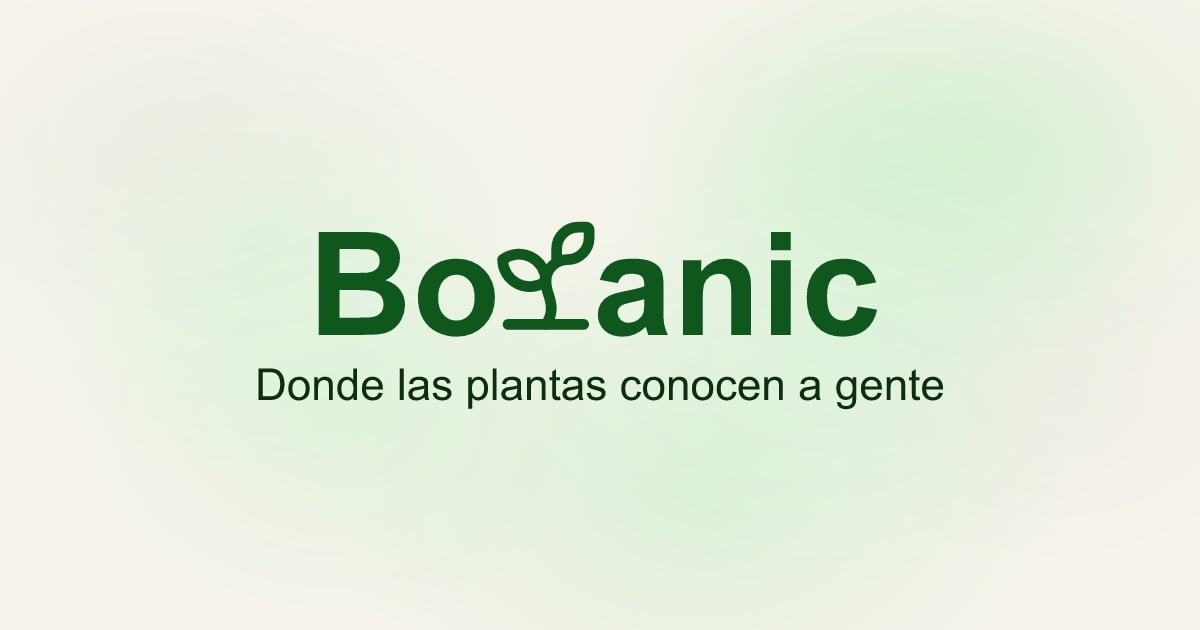
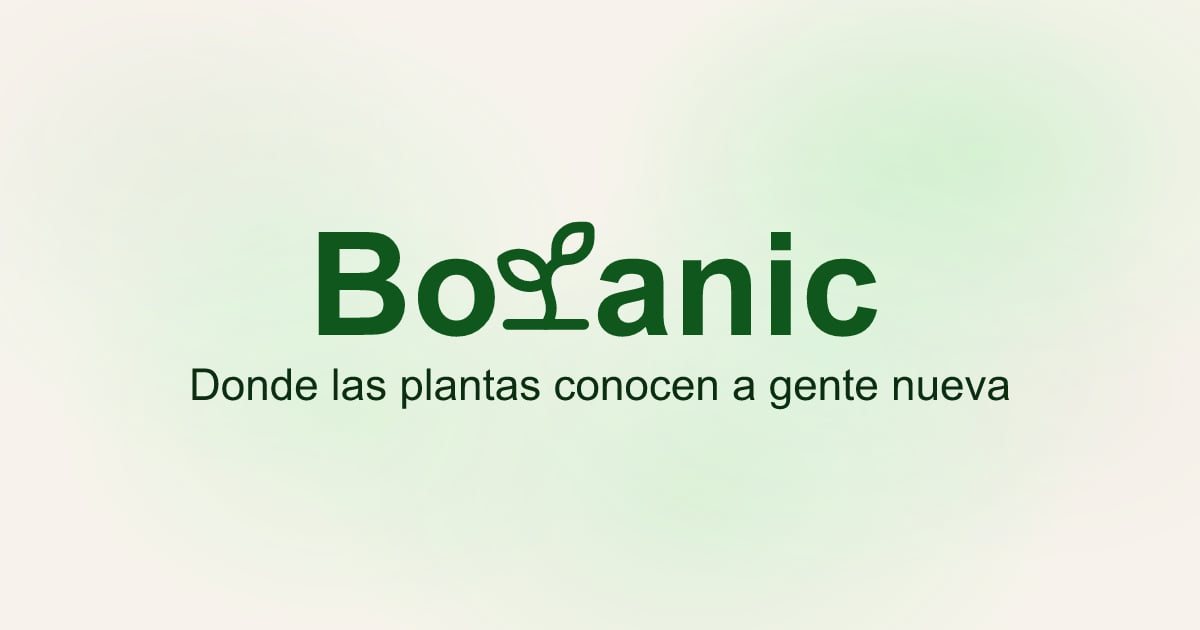
feat(landing): header compartido, copy 'gente nueva' y actualizacion de docs

Changed region(s): [[0.1542, 0.573, 0.8633, 0.6635]]

diff --git a/src/routes/+page.svelte b/src/routes/+page.svelte
@@ -1,6 +1,6 @@
 <script lang="ts">
 	import { Button } from "$lib/components/ui/button";
-	import Logo from "$lib/components/Logo.svelte";
+	import AppHeader from "$lib/components/AppHeader.svelte";
 	import BlogCta from "$lib/components/blog/BlogCta.svelte";
 	import AppFooter from "$lib/components/AppFooter.svelte";
 	import {
@@ -12,6 +12,8 @@
 		ShieldCheck,
 		ShoppingBasket,
 		Shovel,
+		Heart,
+		Recycle,
 	} from "lucide-svelte/icons";
 
 	const demoListings = [
@@ -82,17 +84,17 @@
 </script>
 
 <svelte:head>
-	<title>Botanic | Donde las plantas conocen a gente</title>
+	<title>Botanic | Donde las plantas conocen a gente nueva</title>
 	<meta
 		name="description"
 		content="Botanic conecta a Plant Lovers para vender, cambiar y regalar plantas, semillas, esquejes y tiestos. Para que tus plantas conozcan a quien las querrá."
 	/>
 	<meta name="robots" content="index, follow, max-image-preview:large" />
 	<link rel="canonical" href="https://www.botanicapp.es/" />
-	<meta property="og:title" content="Botanic | Donde las plantas conocen a gente" />
+	<meta property="og:title" content="Botanic | Donde las plantas conocen a gente nueva" />
 	<meta
 		property="og:description"
-		content="Saca más partido a tus plantas y encuentra las que siempre quisiste. Vender, cambiar o regalar."
+		content="La app para Plant Lovers. Saca más partido a tus plantas y encuentra las que siempre quisiste: vender, cambiar o regalar."
 	/>
 	<meta property="og:type" content="website" />
 	<meta property="og:url" content="https://www.botanicapp.es/" />
@@ -101,12 +103,12 @@
 	<meta property="og:image" content="https://www.botanicapp.es/og-image.jpg" />
 	<meta property="og:image:width" content="1200" />
 	<meta property="og:image:height" content="630" />
-	<meta property="og:image:alt" content="Botanic | Donde las plantas conocen a gente" />
+	<meta property="og:image:alt" content="Botanic | Donde las plantas conocen a gente nueva" />
 	<meta name="twitter:card" content="summary_large_image" />
-	<meta name="twitter:title" content="Botanic | Donde las plantas conocen a gente" />
+	<meta name="twitter:title" content="Botanic | Donde las plantas conocen a gente nueva" />
 	<meta
 		name="twitter:description"
-		content="Saca más partido a tus plantas y encuentra las que siempre quisiste. Vender, cambiar o regalar."
+		content="La app para Plant Lovers. Saca más partido a tus plantas y encuentra las que siempre quisiste: vender, cambiar o regalar."
 	/>
 	<meta name="twitter:image" content="https://www.botanicapp.es/og-image.jpg" />
 	<script type="application/ld+json">
@@ -144,18 +146,18 @@
 	</script>
 </svelte:head>
 
+<AppHeader />
+
 <!-- Hero -->
 <section class="mx-auto grid max-w-6xl items-center gap-12 px-6 pt-24 pb-32 md:grid-cols-2 md:gap-16 md:px-8 md:pt-36 md:pb-40">
 	<div class="flex flex-col items-start gap-5">
-		<a href="/" class="inline-flex items-center">
-			<Logo class="h-10" />
-		</a>
+		<p class="text-sm font-medium tracking-wide text-primary uppercase">La app para Plant Lovers</p>
 		<h1 class="text-4xl leading-[1.05] font-light text-balance md:text-6xl">
 			Tus plantas quieren <strong class="font-semibold">conocer a gente nueva</strong>
 		</h1>
 		<p class="max-w-md text-lg text-muted-foreground">
-			Saca más partido a tus plantas y encuentra las que siempre quisiste. Vender, cambiar o
-			regalar: así tus plantas conocen a gente que las va a cuidar.
+			Saca más partido a tus plantas y encuentra las que siempre quisiste. Con la app de
+			Botanic, vender, cambiar o regalar.
 		</p>
 		<Button href="#waitlist" size="lg" class="mt-2 h-12 px-8 text-base">Únete a la waitlist</Button>
 	</div>
@@ -242,6 +244,45 @@
 				{cat.name}
 			</span>
 		{/each}
+	</div>
+</section>
+
+<!-- ¿Qué es Botanic? -->
+<section class="mx-auto max-w-6xl px-4 pt-32 pb-16 md:px-6 md:pt-36 md:pb-20">
+	<div
+		class="rounded-3xl border border-border bg-secondary/40 px-6 py-14 md:px-12 md:py-16"
+	>
+		<div class="mx-auto max-w-2xl text-center">
+			<p class="text-sm font-medium tracking-wide text-primary uppercase">¿Qué es Botanic?</p>
+			<h2 class="mt-2 text-4xl leading-tight font-light text-balance md:text-[2.875rem]">
+				La app donde las plantas <strong class="font-semibold">conocen a gente nueva</strong>
+			</h2>
+			<p class="mt-3 text-pretty text-muted-foreground">
+				Botanic es una aplicación para la comunidad de Plant Lovers. Publica tus plantas,
+				esquejes, semillas o tiestos y encuentra a quien los quiera: para venderlos,
+				cambiarlos o regalarlos.
+			</p>
+		</div>
+		<div class="mt-10 flex flex-wrap items-center justify-center gap-2.5">
+			<span
+				class="inline-flex items-center gap-2 rounded-full border border-border bg-background px-4 py-2 text-sm font-medium"
+			>
+				<Leaf class="size-4 text-primary" aria-hidden="true" />
+				Solo plantas — pensado para el mundo vegetal
+			</span>
+			<span
+				class="inline-flex items-center gap-2 rounded-full border border-border bg-background px-4 py-2 text-sm font-medium"
+			>
+				<Heart class="size-4 text-primary" aria-hidden="true" />
+				Comunidad — entre gente que cuida plantas
+			</span>
+			<span
+				class="inline-flex items-center gap-2 rounded-full border border-border bg-background px-4 py-2 text-sm font-medium"
+			>
+				<Recycle class="size-4 text-primary" aria-hidden="true" />
+				Segunda vida — la economía circular, hecha fácil
+			</span>
+		</div>
 	</div>
 </section>
 
@@ -344,9 +385,7 @@
 
 <!-- Waitlist -->
 <section class="mx-auto max-w-6xl px-4 py-24 md:px-6">
-	<div id="waitlist" class="scroll-mt-16">
-		<BlogCta />
-	</div>
+	<BlogCta />
 </section>
 
 <!-- Footer -->

diff --git a/src/lib/components/AppHeader.svelte b/src/lib/components/AppHeader.svelte
@@ -1,0 +1,38 @@
+<script lang="ts">
+	import { page } from "$app/state";
+	import Logo from "$lib/components/Logo.svelte";
+	import { Button } from "$lib/components/ui/button";
+
+	const links = $derived([
+		{ label: "Inicio", href: "/", active: page.url.pathname === "/" },
+		{ label: "Blog", href: "/blog", active: page.url.pathname.startsWith("/blog") },
+	]);
+</script>
+
+<header
+	class="sticky top-0 z-10 border-b border-border/40 bg-background/95 backdrop-blur"
+>
+	<div
+		class="mx-auto flex max-w-6xl items-center justify-between px-4 py-4 md:px-6"
+	>
+		<a href="/" class="inline-flex items-center">
+			<Logo class="h-7" />
+		</a>
+		<div class="flex items-center gap-7">
+			<nav class="flex items-center gap-2" aria-label="Navegación principal">
+				{#each links as link}
+					<a
+						href={link.href}
+						aria-current={link.active ? "page" : undefined}
+						class="rounded-full px-4 py-1.5 text-sm font-medium transition-colors {link.active
+							? 'border border-border bg-muted text-foreground'
+							: 'text-muted-foreground hover:text-foreground'}"
+					>
+						{link.label}
+					</a>
+				{/each}
+			</nav>
+			<Button href="#waitlist" class="px-4">Únete a la waitlist</Button>
+		</div>
+	</div>
+</header>

diff --git a/src/routes/blog/+page.svelte b/src/routes/blog/+page.svelte
@@ -6,10 +6,10 @@
 </script>
 
 <svelte:head>
-	<title>Blog Botanic — Guías y cuidados para plant lovers</title>
+	<title>El blog de Botanic</title>
 	<meta
 		name="description"
-		content="Guías de cuidados, propagación y novedades del mundo de las plantas, para que tus plantas y tus esquejes conozcan a gente nueva."
+		content="Cuidados, propagación y novedades del mundo de las plantas, para que tus plantas y tus esquejes conozcan a gente nueva."
 	/>
 	<meta name="robots" content="index, follow, max-image-preview:large" />
 	<link rel="canonical" href="https://www.botanicapp.es/blog" />
@@ -19,7 +19,7 @@
 	<header class="mx-auto mb-12 max-w-2xl text-center">
 		<p class="text-sm font-medium tracking-wide text-primary uppercase">Blog Botanic</p>
 		<h1 class="mt-2 text-4xl leading-tight font-light text-balance md:text-5xl">
-			Guías para <strong class="font-semibold">plant lovers</strong>
+			El blog de <strong class="font-semibold">Botanic</strong>
 		</h1>
 		<p class="mt-3 text-pretty text-muted-foreground">
 			Cuidados, propagación y novedades del mundo vegetal, escritos con cariño. Y recuerda: si

diff --git a/src/routes/blog/pagina/[page]/+page.svelte b/src/routes/blog/pagina/[page]/+page.svelte
@@ -1,5 +1,6 @@
 <script lang="ts">
 	import BlogIndex from "$lib/components/blog/BlogIndex.svelte";
+	import BlogCta from "$lib/components/blog/BlogCta.svelte";
 
 	let { data } = $props();
 
@@ -10,10 +11,10 @@
 </script>
 
 <svelte:head>
-	<title>Blog Botanic — Página {data.page} · Guías para plant lovers</title>
+	<title>El blog de Botanic — Página {data.page}</title>
 	<meta
 		name="description"
-		content="Guías de cuidados, propagación y novedades del mundo de las plantas — página {data.page}."
+		content="Cuidados, propagación y novedades del mundo de las plantas — página {data.page}."
 	/>
 	<meta name="robots" content="index, follow, max-image-preview:large" />
 	<link rel="canonical" href={`${base}/blog/pagina/${data.page}`} />
@@ -27,4 +28,8 @@
 
 <section class="mx-auto max-w-6xl px-4 pt-6 pb-20 md:px-6">
 	<BlogIndex posts={data.posts} page={data.page} totalPages={data.totalPages} />
+
+	<div class="mt-20">
+		<BlogCta />
+	</div>
 </section>

diff --git a/src/routes/blog/+layout.svelte b/src/routes/blog/+layout.svelte
@@ -1,24 +1,12 @@
 <script lang="ts">
-	import { ArrowLeft } from "lucide-svelte/icons";
-	import Logo from "$lib/components/Logo.svelte";
+	import AppHeader from "$lib/components/AppHeader.svelte";
 	import AppFooter from "$lib/components/AppFooter.svelte";
 
 	let { children } = $props();
 </script>
 
 <div class="mx-auto flex min-h-dvh max-w-6xl flex-col">
-	<header class="sticky top-0 z-10 flex items-center justify-between border-b border-border/40 bg-background/95 px-4 py-4 backdrop-blur md:px-6">
-		<a href="/" class="inline-flex items-center">
-			<Logo class="h-7" />
-		</a>
-		<a
-			href="/"
-			class="inline-flex items-center gap-1.5 text-sm font-medium text-muted-foreground hover:text-foreground"
-		>
-			<ArrowLeft class="size-4" aria-hidden="true" />
-			Volver a la home
-		</a>
-	</header>
+	<AppHeader />
 
 	<main class="flex-1">
 		{@render children()}

diff --git a/src/lib/components/blog/BlogCta.svelte b/src/lib/components/blog/BlogCta.svelte
@@ -8,7 +8,10 @@
 	}: { title?: string; subtitle?: string } = $props();
 </script>
 
-<section class="relative overflow-hidden rounded-3xl bg-secondary/70 px-6 py-16 md:py-20">
+<section
+	id="waitlist"
+	class="relative scroll-mt-16 overflow-hidden rounded-3xl bg-secondary/70 px-6 py-16 md:py-20"
+>
 	<div class="relative mx-auto flex max-w-3xl flex-col items-center gap-4 text-center">
 		<Logo class="h-7" />
 		<h2 class="max-w-2xl text-3xl leading-tight font-light text-balance text-still-950 md:text-4xl">

diff --git a/src/routes/blog/feed.xml/+server.ts b/src/routes/blog/feed.xml/+server.ts
@@ -23,7 +23,7 @@ export const GET = () => {
 <channel>
 \t<title>Blog Botanic</title>
 \t<link>${BASE}/blog</link>
-\t<description>Guías de cuidados, propagación y novedades para plant lovers.</description>
+\t	<description>Cuidados, propagación y novedades del mundo de las plantas.</description>
 \t<language>es-es</language>
 \t<atom:link href="${BASE}/blog/feed.xml" rel="self" type="application/rss+xml" />
 ${items}

diff --git a/docs/plan-desarrollo.md b/docs/plan-desarrollo.md
@@ -38,7 +38,7 @@ Ya hecho:
 - [x] `bun create svelte@latest botanic --template typescript`
 - [x] TailwindCSS
 - [ ] Prettier, ESLint
-- [ ] Proyecto Supabase (DB + Auth + Storage)
+- [x] Proyecto Supabase `botanic` creado (Free tier, eu-central-1)
 - [ ] Schema: profiles, categories + seed
 - [ ] @vite-pwa/sveltekit + manifest básico
 - [ ] Auth (email + Google OAuth)

diff --git a/docs/pwa.md b/docs/pwa.md
@@ -19,7 +19,7 @@ export default defineConfig({
         name: 'Botanic',
         short_name: 'Botanic',
         description: 'Compra y vende plantas entre particulares',
-        theme_color: '#22c55e',
+        theme_color: '#517756',
         background_color: '#ffffff',
         display: 'standalone',
         icons: [

diff --git a/README.md b/README.md
@@ -6,7 +6,7 @@ Vender, cambiar o regalar semillas, esquejes, brotes, plantas y tiestos con gent
 
 ## Estado actual
 
-**Fase**: Planificación / Pre-desarrollo
+**Fase**: Pre-desarrollo (landing, blog y waitlist operativos)
 **Siguiente paso**: Sprint 1 — Setup + Auth
 
 ## Stack
